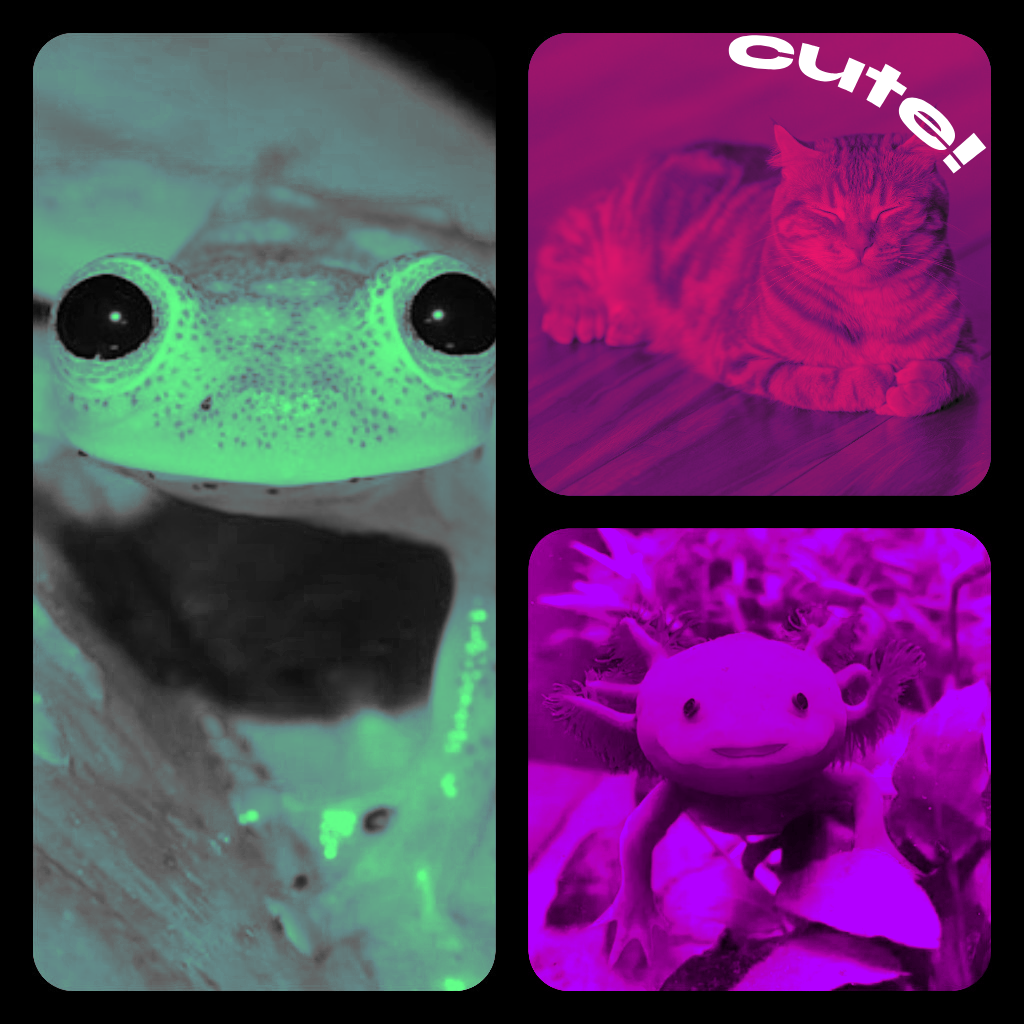
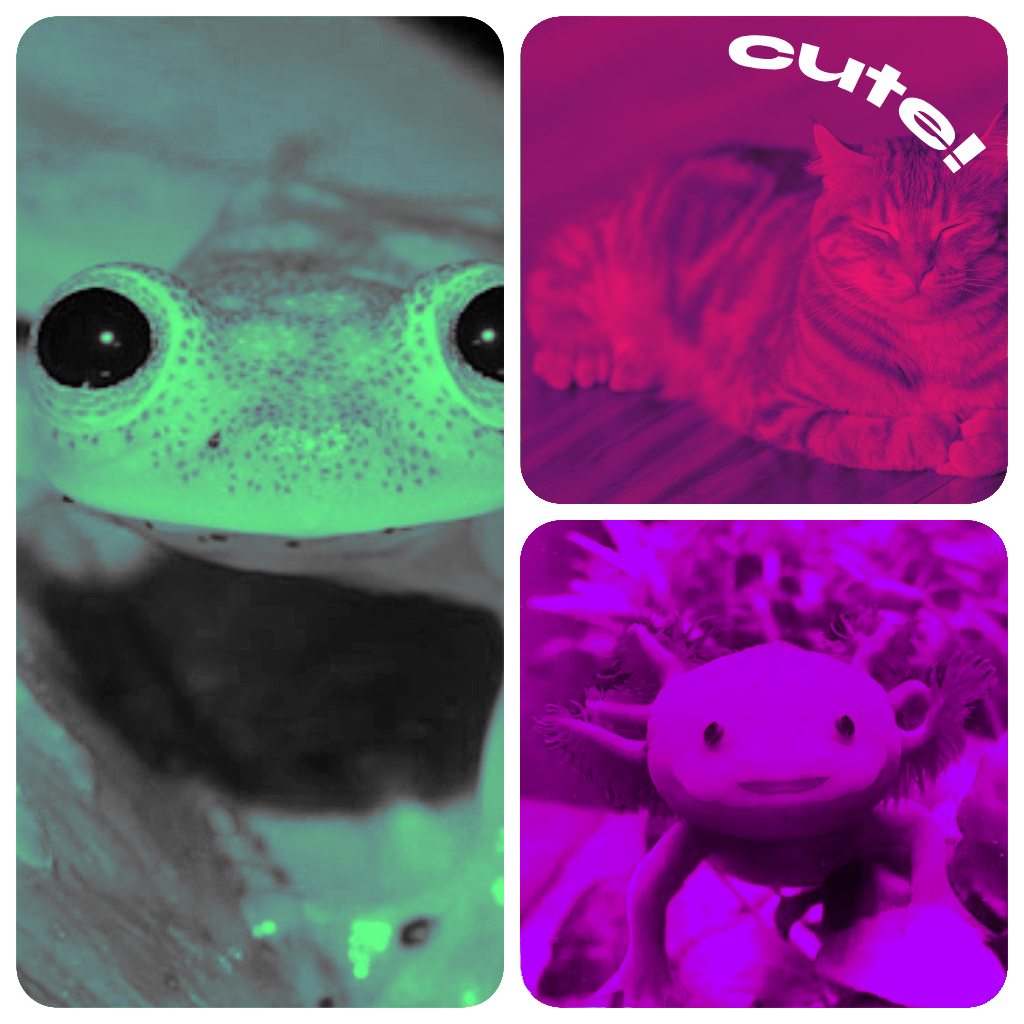
phase 4

diff --git a/css/about.css b/css/about.css
@@ -15,20 +15,23 @@
 }
 
 #clock {
-    background-color: black;
+    background-color: #c97373;
+    border-color: #f2ae99;
     grid-column: 3/6;
     grid-row: 1/3;
     display: flex;
     flex-direction: column;
     align-items: center;
     justify-content: center;
-
-    * {
-        color: ff156b;
+    *{
+        text-shadow: 1px 1px rgba(0, 0, 0, 0.453);
+        color: white;
+        font-size: 18;
+        font-weight: 100;
     }
-
     h1 {
-        text-shadow: 0px 0px 20px rgb(193, 15, 80);
+        color: white;
+        text-shadow: 2px 2px rgba(0, 0, 0, 0.453);
         font-size: 75;
         font-weight: 100;
         text-transform: lowercase;
@@ -53,17 +56,19 @@
     background-size: contain;
     background-position: center;
     background-repeat: no-repeat;
-    background-color: rgb(0, 0, 0);
+    border-color: white;
+    background-color: white;
 }
 
 #my-hobbies {
     display: flex;
     /* text-align: center; */
+    text-shadow: 1px 1px rgba(0, 0, 0, 0.453);
     font-weight: bold;
     justify-content: center;
     align-items: center;
     grid-column: 1 / 3;
-    color: black;
+    color: white;
     border-color: #62ff89;
     background-color: #35cb97;
 }
@@ -74,11 +79,12 @@
     flex-direction: column;
     background-color: #ffb566;
     border-color: #ffed96;
-    padding: 8px;
+    padding: 12px;
     grid-column: 1 / 3;
     grid-row: 4 / 6;
     text-align: center;
-    a{
+
+    a {
         border-radius: 16px;
         padding: 12px;
         border: 8px solid #ffffff;
@@ -87,12 +93,26 @@
 
     }
 }
-#my-socials-container{
+
+#my-socials-container {
     display: flex;
     flex-direction: column;
     justify-content: center;
     height: 100%;
     gap: 16px;
     flex-direction: column;
+
+}
+
+@media screen and (max-width: 850px),
+(max-height: 850px) {
+    #app-about {
+        overflow: auto;
+
+        >* {
+            aspect-ratio: 1;
+        }
+    }
+
 
 }

diff --git a/css/main.css b/css/main.css
@@ -4,7 +4,8 @@
 @import url('about.css');
 @import url("photos.css");
 @import url("cool_websites.css");
-viewport-begin{
+
+viewport-begin {
     display: none;
 }
 
@@ -15,10 +16,12 @@ viewport-begin{
     height: 850px;
     gap: 14px;
 }
-#app-viewport{
+
+#app-viewport {
     height: 100%;
 }
-#hidden_views{
+
+#hidden_views {
     display: none;
 }
 
@@ -33,7 +36,16 @@ body {
     display: flex;
     height: 100%;
     overflow: hidden;
+
 }
+
+@media screen and (max-width: 850px), (max-height: 850px) {
+    #app-container {
+        width: 95% !important;
+        height: 95% !important;
+    }
+}
+
 
 * {
     font-family: "Syne";

diff --git a/views/about.html b/views/about.html
@@ -6,10 +6,10 @@
     </div>
     <div id="my-hobbies">
         my hobbies are: <br>
-        📌 mathematics <br>
-        📌 programming<br>
-        📌 cybersecurity <br>
-        📌 3D art
+        ➼ mathematics <br>
+        ➼ programming<br>
+        ➼ cybersecurity <br>
+        ➼ 3D art
     </div>
     <div id="my-socials">
         <h2>wanna reach out?</h2>

diff --git a/views/home.html b/views/home.html
@@ -10,7 +10,7 @@
             </feDisplacementMap>
         </filter>
     </svg>
-    <img src="/images/home/tokyo-3d-billboard(1).png">
+    <!-- <img src="/images/home/tokyo-3d-billboard(1).png"> -->
     <img src="/images/home/20231120-toronto-billboards(1).png">
     <img src="/images/home/Osgoode_TTC_NE_entrance.png">
     <img src="/images/home/image(1).png">

diff --git a/css/photos.css b/css/photos.css
@@ -2,9 +2,10 @@
     height: 100%;
 
     box-shadow: 5px 5px rgba(0, 0, 0, 0.281) !important;
-    border: #ffed96 8px solid;
+    background-color: #35cb97  !important;
+    border: #62ff89 8px solid;
     border-radius: 16px;
-    background: #ffb566 !important;
+    /* background: #ffb566 !important; */
     display: flex;
     flex-direction: column;
     *{

diff --git a/css/cool_websites.css b/css/cool_websites.css
@@ -4,7 +4,7 @@
     gap: 16px;
     font-size: 24px;
 
-    a {
+    a {        
         display: flex;
         flex-direction: column;
         grid-template-columns: 1fr;
@@ -15,7 +15,6 @@
         background: #ffed96;
         color: black;
         text-decoration: none;
-
         height: 120px;
     }
 

diff --git a/css/home.css b/css/home.css
@@ -16,7 +16,7 @@
         height: 50%;
         object-fit:cover;
         border-radius: 16px;
-        border: 8px solid ;
+        border: 0px solid ;
         border-radius: 16px;
         /* filter: url(#warp); */
         box-shadow: 12px 12px 1px rgba(0, 0, 0, 0.375);

diff --git a/css/topbar.css b/css/topbar.css
@@ -22,6 +22,7 @@
 
 .topbar-selected {
     filter: invert();
+    box-shadow: 2px 2px rgba(255, 255, 255, 0.453);
     background-color: black;
     border: solid 8px black;
 }
